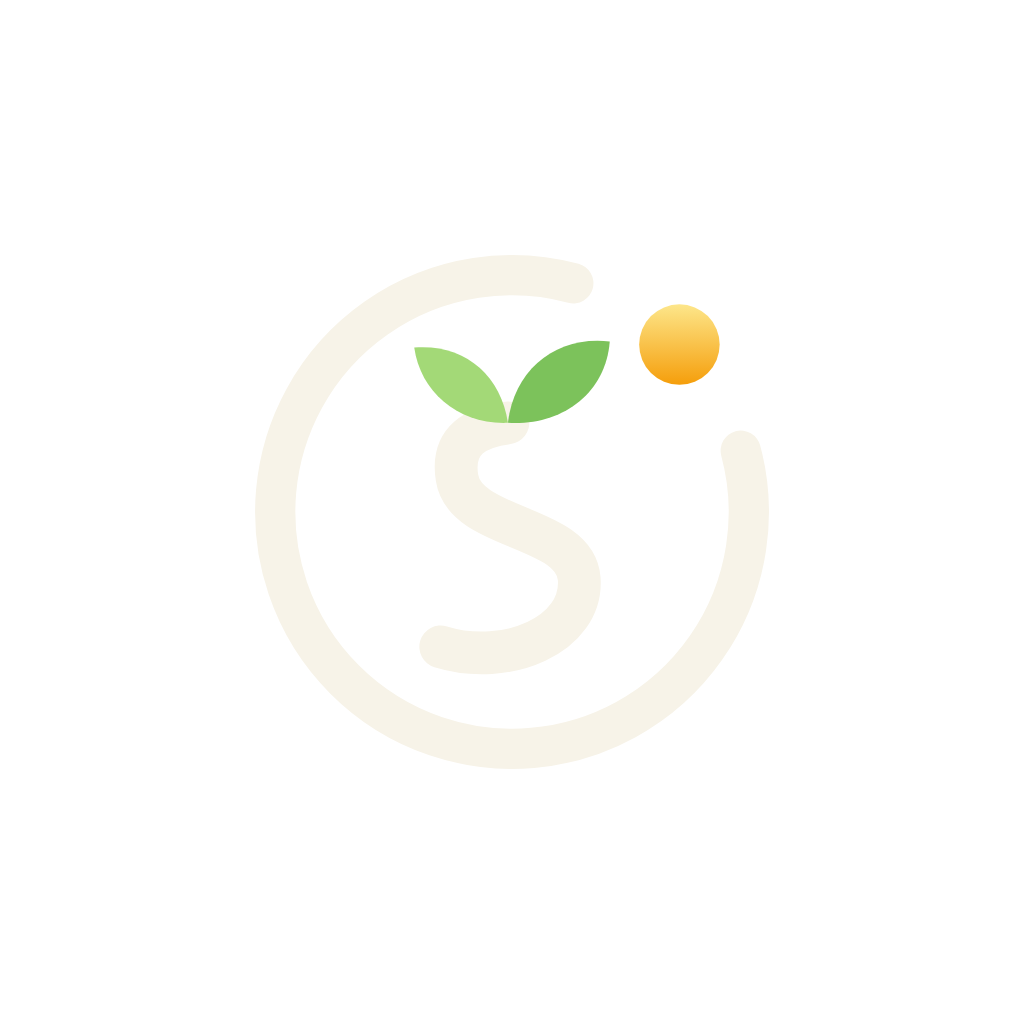
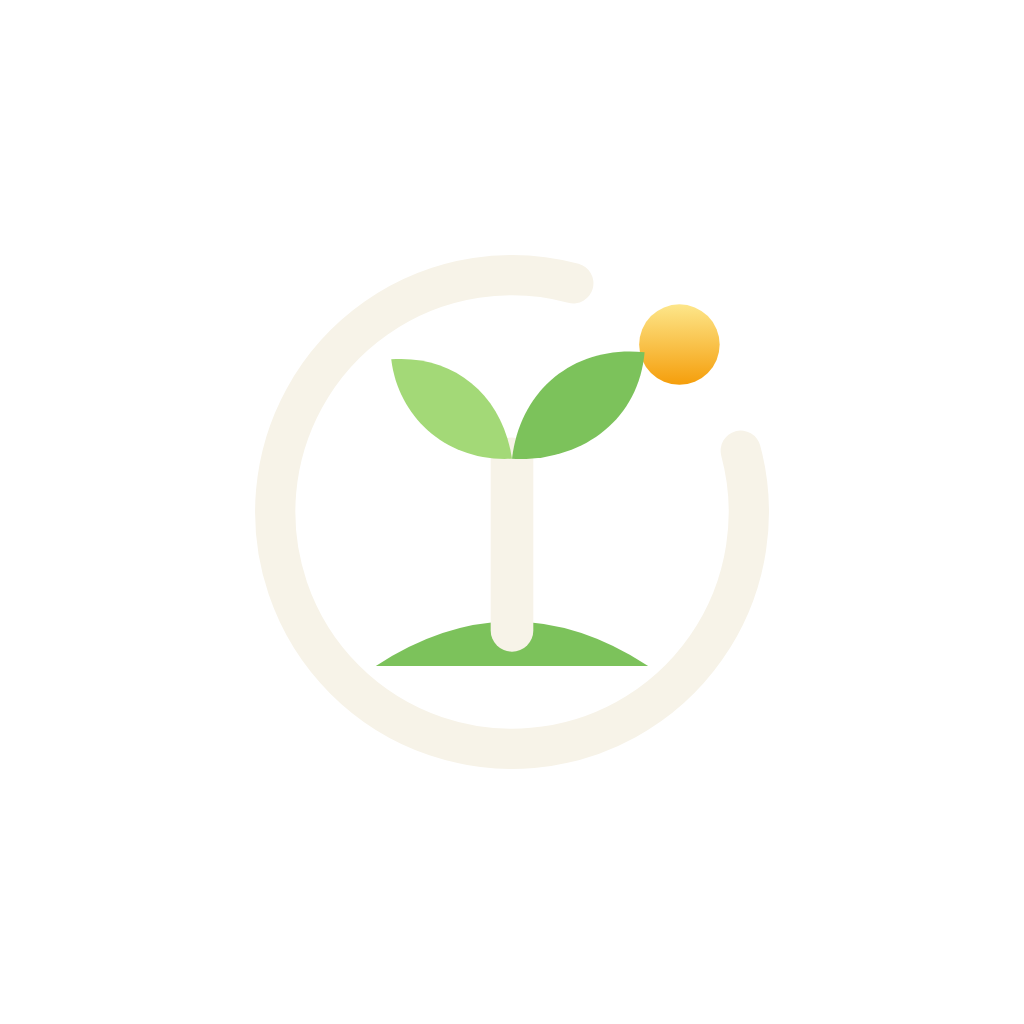
brand: plain sapling instead of the S-shaped stem
The S read as confusing; the mark is now an open circle, a sapling on a
small mound, and the sun rising in the opening. All brand assets, Logo.tsx
and the Play icon/feature graphic regenerated.

Claude-Session: https://claude.ai/code/session_01NN6PUpUbgHx92z9kX31z6w

Changed region(s): [[0.375, 0.3125, 0.625, 0.4688], [0.375, 0.5938, 0.625, 0.6562]]

diff --git a/apps/mobile/src/components/Logo.tsx b/apps/mobile/src/components/Logo.tsx
@@ -3,8 +3,8 @@ import Svg, { Circle, Defs, G, LinearGradient, Path, RadialGradient, Rect, Stop 
 
 /**
  * sobr logo mark. An open circle (the journey, left open because you can
- * always begin again), an S drawn as a growing stem with two leaves (sobr, and
- * growth), and a sun rising in the opening (a new clear day). No drink imagery,
+ * always begin again), a sapling growing from the ground (each clear day grows
+ * something), and a sun rising in the opening (a new clear day). No drink imagery,
  * which can itself be a trigger. Mirrors assets/brand/logo.svg; keep the two in
  * step. Used at sign-in, onboarding, About and the 404 page.
  */
@@ -38,23 +38,16 @@ export function Logo({ size = 96 }: { size?: number }) {
           strokeLinecap="round"
         />
         <Circle cx={46.14} cy={18.86} r={3.4} fill={`url(#sun${id})`} />
-        <G transform="translate(32 34.5) scale(0.86) translate(-32 -34.5)">
-          <Path
-            d="M25 46 C31.5 48 39 44.8 38.6 39.3 C38.2 34 27.4 34.6 26.6 29.4 C26 25.6 28.6 24.4 31.6 24"
-            fill="none"
-            stroke="#F7F3E8"
-            strokeWidth={4.2}
-            strokeLinecap="round"
-          />
-          <Path
-            d="M31.6 24 C26.8 24.2 23 21 22.4 16.6 C27.2 16.2 30.9 19.2 31.6 24 Z"
-            fill="#A3D977"
-          />
-          <Path
-            d="M31.6 24 C32.2 18.7 36.4 15.4 41.6 16 C41.2 21.2 36.8 24.3 31.6 24 Z"
-            fill="#7CC25B"
-          />
-        </G>
+        <Path d="M20.5 46 Q32 38.5 43.5 46 Z" fill="#7CC25B" />
+        <Path d="M32 43 L32 28.5" stroke="#F7F3E8" strokeWidth={3.6} strokeLinecap="round" />
+        <Path
+          d="M32 28.5 C26.6 28.8 22.4 25.1 21.8 20.1 C27.1 19.7 31.2 23.1 32 28.5 Z"
+          fill="#A3D977"
+        />
+        <Path
+          d="M32 28.5 C32.7 22.5 37.4 18.9 43.2 19.5 C42.7 25.3 37.8 28.8 32 28.5 Z"
+          fill="#7CC25B"
+        />
       </G>
     </Svg>
   );

diff --git a/PROGRESS.md b/PROGRESS.md
@@ -8,8 +8,9 @@ its task groups here.
 
 <a id="lifecycle"></a>
 ## Logo v3, 1.0.0, iOS parity, Play assets ✅ done (2026-10-30)
-- **Logo**: an open circle (the journey, open because you can always begin again), an S
-  drawn as a growing stem with two leaves, and a sun rising in the opening. Forest-green
+- **Logo**: an open circle (the journey, open because you can always begin again), a
+  sapling growing from a small mound, and a sun rising in the opening. (A first cut drew the
+  stem as an S; the owner preferred a plain sapling.) Forest-green
   icon; all brand assets, `Logo.tsx`, the site and the Play icon/feature graphic updated.
 - **Version 1.0.0** for the first Play release.
 - **Android fixes**: centred tab bar; `PressableStyled` replaces function styles, which
